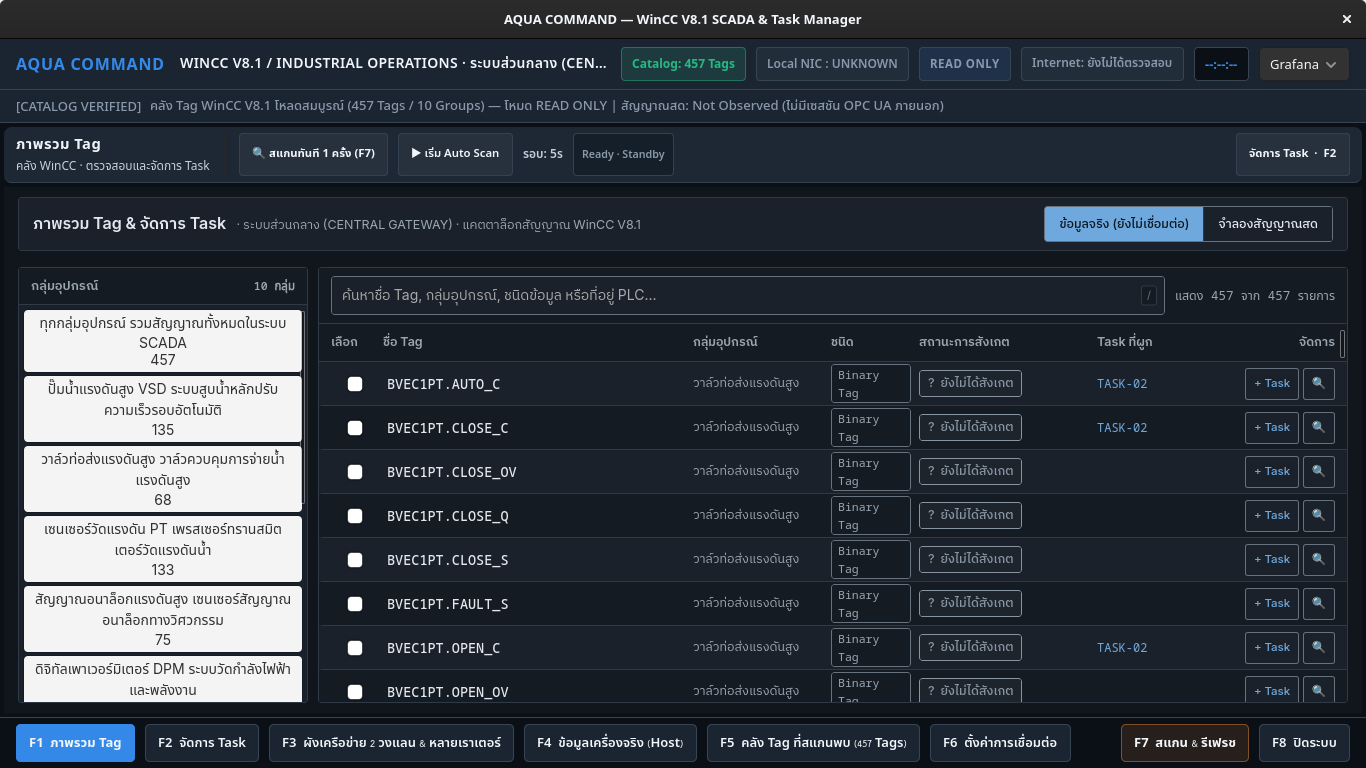
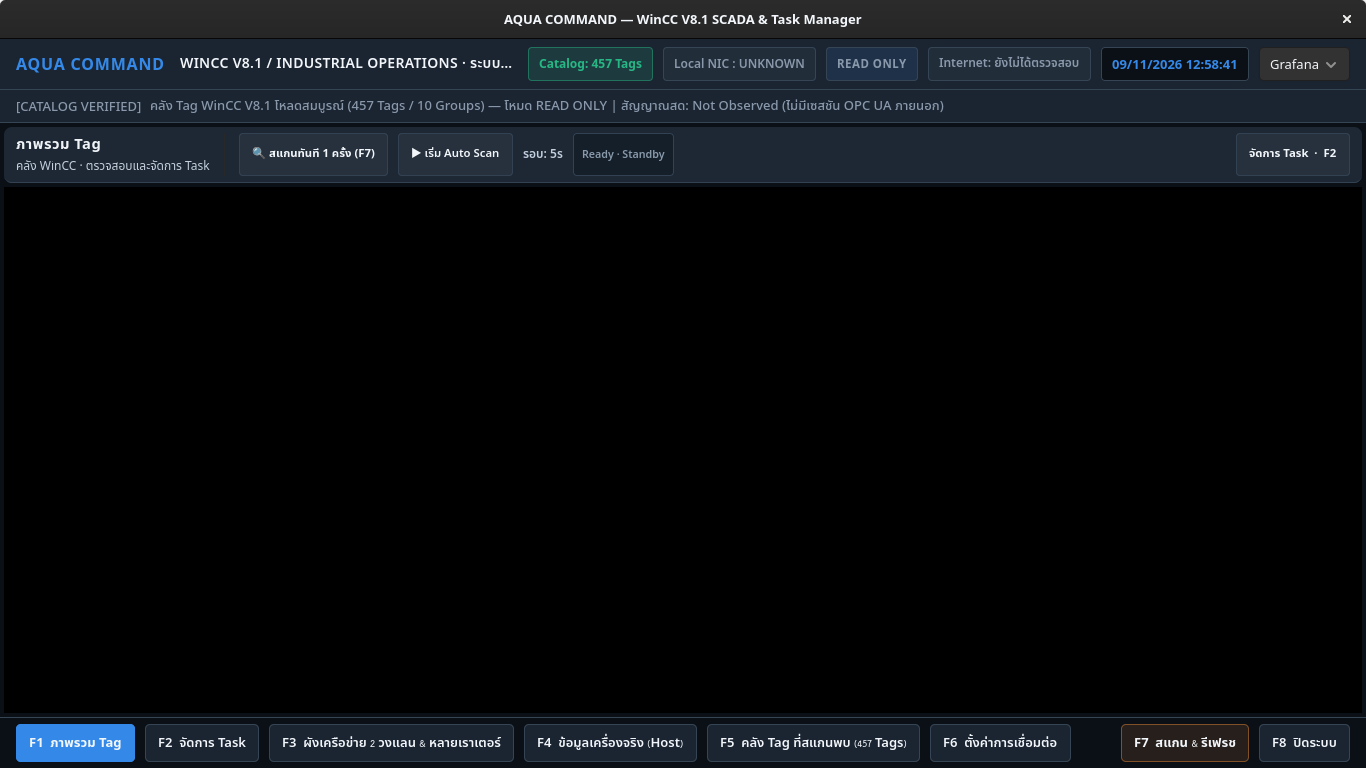
fix(f1): style sidebar group cards and add bottom-left program settings button with shortcut

diff --git a/aqua-command-desktop/desktop/f1_api/view.css b/aqua-command-desktop/desktop/f1_api/view.css
@@ -201,50 +201,68 @@ html, body {
   gap: 2px;
 }
 
-.group-btn {
+.group-btn,
+.group-item {
   display: block;
   width: 100%;
   text-align: left;
   font: inherit;
   color: var(--ink);
-  background: transparent;
-  border: 1px solid transparent;
+  background: var(--surface-2);
+  border: 1px solid var(--line);
   border-radius: var(--radius);
   padding: 8px 10px;
   cursor: pointer;
   min-height: 48px;
   transition: background 0.15s ease-out, border-color 0.15s ease-out;
+  box-sizing: border-box;
 }
 
-.group-btn:hover {
+.group-btn:hover,
+.group-item:hover {
   background: var(--surface-3);
+  border-color: var(--line-strong);
 }
 
-.group-btn[aria-pressed="true"] {
+.group-btn.is-selected,
+.group-btn[aria-selected="true"],
+.group-btn[aria-pressed="true"],
+.group-item.is-selected,
+.group-item[aria-selected="true"] {
   background: var(--selected);
   border-color: var(--accent);
+  box-shadow: 0 0 0 1px var(--accent);
 }
 
-.group-btn .title-row {
+.group-btn .title-row,
+.group-item .title-row {
   display: flex;
   justify-content: space-between;
   align-items: center;
   gap: 8px;
   font-weight: 500;
   font-size: 13px;
+  color: var(--ink);
 }
 
-.group-btn .title-row em {
+.group-btn.is-selected .title-row,
+.group-item.is-selected .title-row {
+  color: var(--accent);
+}
+
+.group-btn .title-row em,
+.group-item .title-row em {
   font-style: normal;
   font-size: 11.5px;
   color: var(--mut);
-  background: var(--surface-2);
+  background: var(--surface);
   padding: 1px 6px;
   border-radius: var(--radius);
   border: 1px solid var(--line);
 }
 
-.group-btn small {
+.group-btn small,
+.group-item small {
   display: block;
   color: var(--mut);
   font-size: 11.5px;
@@ -252,6 +270,61 @@ html, body {
   overflow: hidden;
   text-overflow: ellipsis;
   white-space: nowrap;
+}
+
+/* Sidebar Footer & Program Settings Button */
+.groups-footer {
+  padding: 8px;
+  border-top: 1px solid var(--line);
+  background: var(--surface-2);
+  flex-shrink: 0;
+}
+
+.btn-settings-sidebar {
+  display: flex;
+  align-items: center;
+  gap: 8px;
+  width: 100%;
+  padding: 8px 10px;
+  background: var(--surface);
+  border: 1px solid var(--line-strong);
+  border-radius: var(--radius);
+  color: var(--ink);
+  font: inherit;
+  font-size: 12.5px;
+  font-weight: 500;
+  cursor: pointer;
+  transition: background 0.15s ease-out, border-color 0.15s ease-out, color 0.15s ease-out;
+  box-sizing: border-box;
+}
+
+.btn-settings-sidebar:hover {
+  background: var(--surface-3);
+  border-color: var(--accent);
+  color: var(--accent);
+}
+
+.btn-settings-sidebar:active {
+  background: var(--surface-2);
+}
+
+.btn-settings-sidebar .settings-icon {
+  font-size: 14px;
+}
+
+.btn-settings-sidebar .settings-label {
+  flex: 1;
+  text-align: left;
+}
+
+.btn-settings-sidebar .kbd-shortcut {
+  font-size: 10.5px;
+  padding: 1px 5px;
+  background: var(--surface-2);
+  border: 1px solid var(--line);
+  border-radius: var(--radius);
+  color: var(--mut);
+  font-family: inherit;
 }
 
 .group-bar {

diff --git a/aqua-command-desktop/desktop/f1_api/view.js b/aqua-command-desktop/desktop/f1_api/view.js
@@ -200,12 +200,12 @@
       const count = counts[key] || 0;
 
       return `
-        <button class="group-item ${isSelected ? 'is-selected' : ''}" data-group="${escapeHtml(key)}" role="tab" aria-selected="${isSelected}">
-          <div class="group-info">
-            <span class="group-name">${escapeHtml(meta.name)}</span>
-            <span class="group-desc">${escapeHtml(meta.desc)}</span>
+        <button class="group-btn ${isSelected ? 'is-selected' : ''}" data-group="${escapeHtml(key)}" role="tab" aria-selected="${isSelected}">
+          <div class="title-row">
+            <span>${escapeHtml(meta.name)}</span>
+            <em>${count}</em>
           </div>
-          <span class="group-count">${count}</span>
+          <small>${escapeHtml(meta.desc)}</small>
         </button>
       `;
     }).join('');
@@ -863,6 +863,15 @@
       };
     }
 
+    // Sidebar bottom-left Program Settings button
+    const btnOpenSettings = document.getElementById('btnOpenSettings');
+    if (btnOpenSettings) {
+      btnOpenSettings.onclick = (e) => {
+        e.preventDefault();
+        sendBridge('navigate_f6', {});
+      };
+    }
+
     // Helper: toggle tag selection with optional range support
     function toggleTagSelection(tagName, rowIdx, isShift) {
       const filtered = getFilteredTags();
@@ -968,6 +977,32 @@
 
     // Keyboard Navigation
     document.addEventListener('keydown', (e) => {
+      // Program Settings shortcuts (F6 or Ctrl+,)
+      if (e.key === 'F6' || (e.ctrlKey && (e.key === ',' || e.code === 'Comma'))) {
+        e.preventDefault();
+        sendBridge('navigate_f6', {});
+        return;
+      }
+
+      // F1 and F2 shortcuts within Unified Workspace
+      if (e.key === 'F2') {
+        e.preventDefault();
+        openTaskDialog(state.recentTaskId);
+        return;
+      }
+      if (e.key === 'F1') {
+        e.preventDefault();
+        closeModal();
+        return;
+      }
+
+      // Other F-keys passed to GTK host
+      if (/^F[3-8]$/.test(e.key)) {
+        e.preventDefault();
+        sendBridge('key_event', { key: e.key });
+        return;
+      }
+
       // Escape closes open modals
       if (e.key === 'Escape') {
         if (state.activeModal) {

diff --git a/aqua-command-desktop/desktop/f1_api/index.html b/aqua-command-desktop/desktop/f1_api/index.html
@@ -37,6 +37,13 @@
         <span class="mono" style="font-size:11.5px">10 กลุ่ม</span>
       </div>
       <div class="groups-list" id="groupsList" role="region" aria-label="รายการกลุ่มอุปกรณ์"></div>
+      <div class="groups-footer">
+        <button type="button" class="btn-settings-sidebar" id="btnOpenSettings" title="ตั้งค่าระบบและการเชื่อมต่อ (F6 หรือ Ctrl+,)" aria-label="ตั้งค่าโปรแกรม">
+          <span class="settings-icon">⚙</span>
+          <span class="settings-label">ตั้งค่าโปรแกรม</span>
+          <kbd class="kbd-shortcut">F6</kbd>
+        </button>
+      </div>
     </aside>
 
     <!-- Tag Catalog & Task Association Table -->

diff --git a/aqua-command-desktop/desktop/tests/test_f1_api_view.py b/aqua-command-desktop/desktop/tests/test_f1_api_view.py
@@ -337,6 +337,38 @@ class TestF1ApiViewContracts(unittest.TestCase):
         ws.f1_api.open_task_dialog.assert_called_once()
         self.assertIsNone(ws.task_dialog, "GTK task_dialog must NOT be instantiated when f1_api is active")
 
+    def test_13_sidebar_settings_button_and_group_styling(self):
+        index_html = (ASSETS_DIR / 'index.html').read_text(encoding='utf-8')
+        view_css = (ASSETS_DIR / 'view.css').read_text(encoding='utf-8')
+        view_js = (ASSETS_DIR / 'view.js').read_text(encoding='utf-8')
+
+        # Sidebar footer button
+        self.assertIn('btnOpenSettings', index_html)
+        self.assertIn('groups-footer', index_html)
+        self.assertIn('ตั้งค่าโปรแกรม', index_html)
+
+        # CSS styling uses variables and covers both group-btn and group-item
+        self.assertIn('.group-btn', view_css)
+        self.assertIn('.group-item', view_css)
+        self.assertIn('.btn-settings-sidebar', view_css)
+        self.assertIn('.groups-footer', view_css)
+
+        # JS bindings
+        self.assertIn('btnOpenSettings', view_js)
+        self.assertIn('navigate_f6', view_js)
+
+    def test_14_navigate_f6_dispatches_to_alarms(self):
+        owner = MagicMock()
+        view = F1ApiView.__new__(F1ApiView)
+        view.owner = owner
+        view.revision = 1
+        view.closed = False
+        view._send_bridge_response = MagicMock()
+
+        view._dispatch_action('navigate_f6', {}, 'req-f6')
+        owner.switch_to_tab.assert_called_once_with('alarms')
+        view._send_bridge_response.assert_called_once_with('req-f6', ok=True, revision=1)
+
 
 if __name__ == '__main__':
     unittest.main()

diff --git a/aqua-command-desktop/desktop/app.py b/aqua-command-desktop/desktop/app.py
@@ -1687,6 +1687,11 @@ class AquaWinCCWindow(Gtk.ApplicationWindow):
     # Global Function Keys Controller (F1 - F8)
     # ---------------------------------------------------------
     def on_global_key_pressed(self, controller, keyval, keycode, state):
+        # Program Settings shortcut (Ctrl+,)
+        if hasattr(Gdk, 'ModifierType') and (state & Gdk.ModifierType.CONTROL_MASK) and keyval == getattr(Gdk, 'KEY_comma', 44):
+            self.switch_to_tab('alarms')
+            return True
+
         if USE_UNIFIED_WORKSPACE and keyval == Gdk.KEY_F1:
             self.activate_workspace_mode('monitoring')
             if 'overview' in self.nav_btns:
